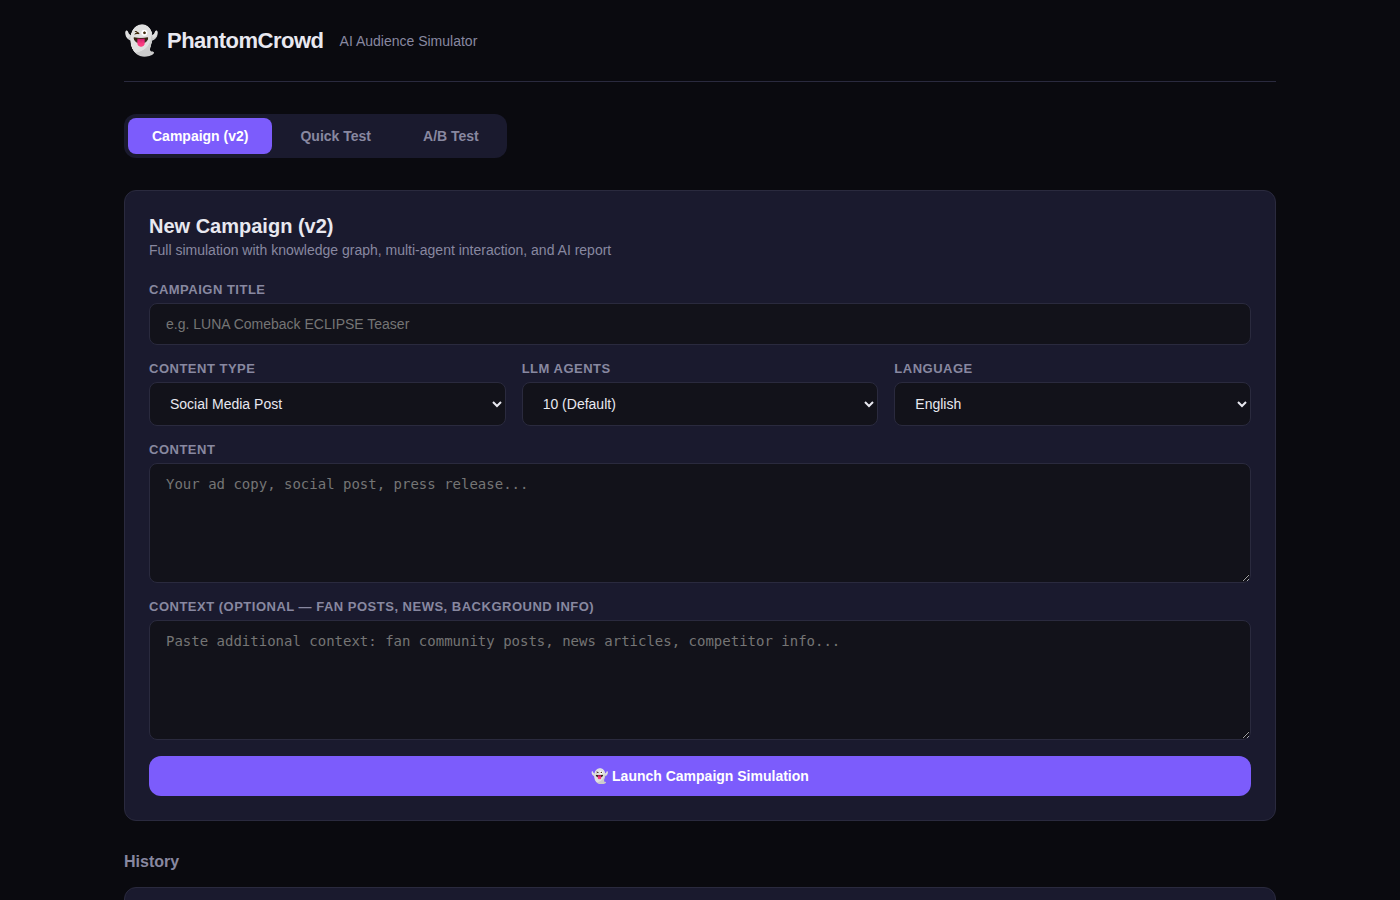
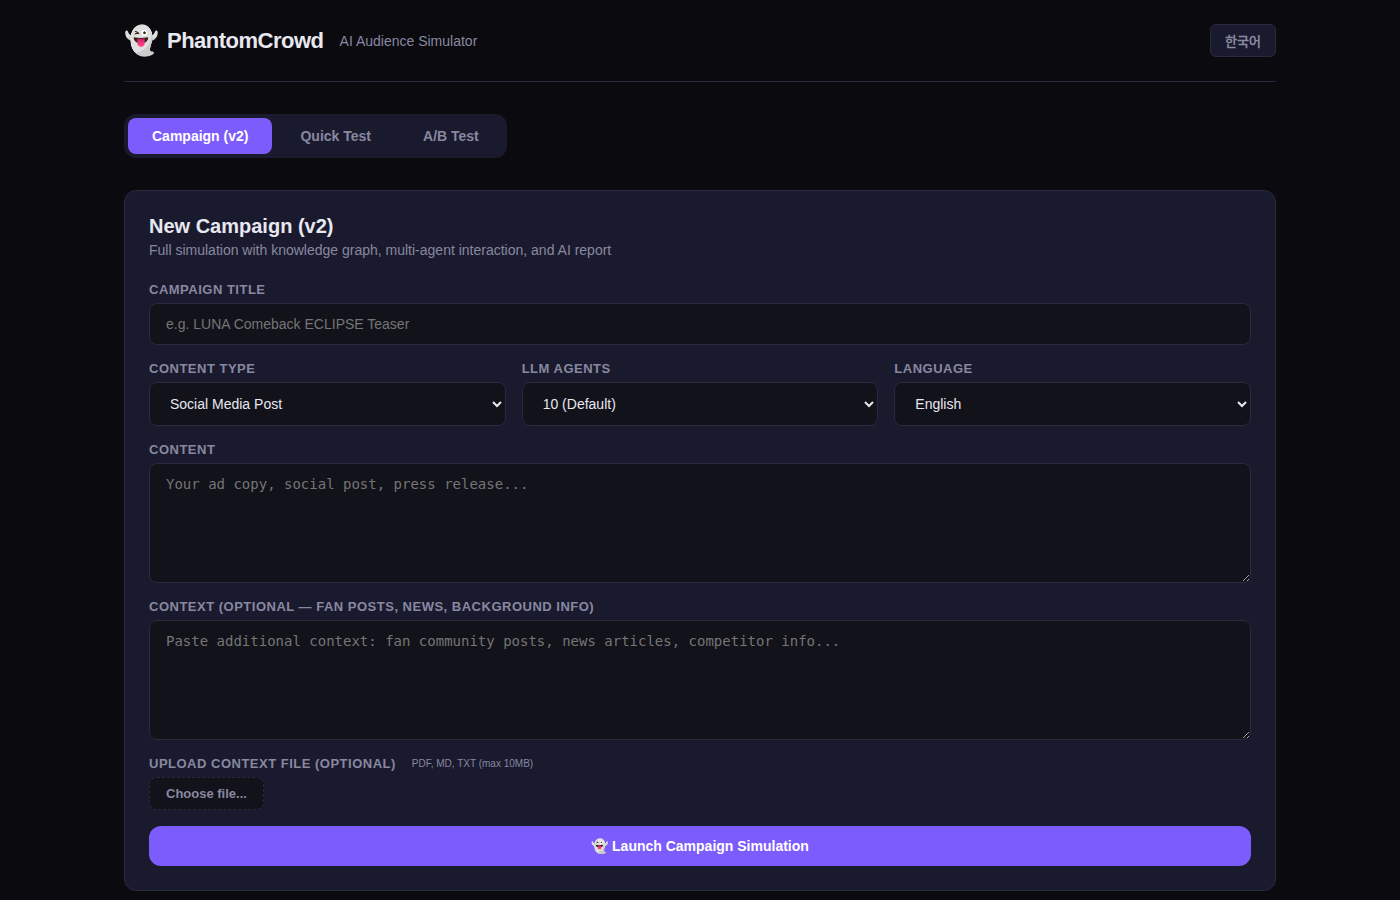
Add file upload UI for context documents (PDF/MD/TXT)
- File upload button in Campaign creation form
- Supports PDF, MD, TXT up to 10MB
- File parsed server-side and appended to campaign context
- Dashed border upload button with file name/size display
- Korean/English label support via i18n

Changed region(s): [[0.0614, 0.84, 0.9214, 1.0], [0.86, 0.0, 0.9214, 0.0622]]

diff --git a/frontend/src/views/HomeView.vue b/frontend/src/views/HomeView.vue
@@ -59,6 +59,20 @@
           <textarea v-model="campaignForm.context_text" :placeholder="$t('campaign.form.contextPlaceholder')" rows="4"></textarea>
         </div>
 
+        <div class="form-group">
+          <label>
+            {{ contextFileLabel }}
+            <span class="file-hint">PDF, MD, TXT (max 10MB)</span>
+          </label>
+          <div class="file-upload-row">
+            <input type="file" ref="fileInput" accept=".pdf,.md,.markdown,.txt,.text,.csv" @change="handleFileSelect" class="file-input" />
+            <button type="button" class="btn-upload" @click="($refs.fileInput as HTMLInputElement)?.click()">
+              {{ selectedFile ? selectedFile.name : uploadBtnLabel }}
+            </button>
+            <span v-if="selectedFile" class="file-selected">{{ (selectedFile.size / 1024).toFixed(0) }}KB</span>
+          </div>
+        </div>
+
         <button type="submit" class="btn-primary" :disabled="loading">
           {{ loading ? $t('campaign.form.starting') : $t('campaign.form.submit') }}
         </button>
@@ -275,17 +289,31 @@
 </template>
 
 <script setup lang="ts">
-import { reactive, ref, onMounted } from 'vue'
+import { reactive, ref, computed, onMounted } from 'vue'
 import { useRouter } from 'vue-router'
+import { useI18n } from 'vue-i18n'
 import {
   createSimulation, listSimulations, createABTest, listABTests,
-  createCampaign, listCampaigns,
+  createCampaign, listCampaigns, uploadCampaignFile,
   type Simulation, type ABTest as ABTestType, type Campaign,
 } from '../api/client'
 
 const router = useRouter()
 
+const { t, locale } = useI18n()
 const mode = ref<'campaign' | 'single' | 'ab'>('campaign')
+const selectedFile = ref<File | null>(null)
+const fileInput = ref<HTMLInputElement | null>(null)
+
+const contextFileLabel = computed(() => locale.value === 'ko' ? '컨텍스트 파일 업로드 (선택)' : 'Upload Context File (optional)')
+const uploadBtnLabel = computed(() => locale.value === 'ko' ? '파일 선택...' : 'Choose file...')
+
+function handleFileSelect(e: Event) {
+  const input = e.target as HTMLInputElement
+  if (input.files && input.files[0]) {
+    selectedFile.value = input.files[0]
+  }
+}
 const loading = ref(false)
 const showTarget = ref(false)
 const simulations = ref<Simulation[]>([])
@@ -336,6 +364,16 @@ async function startCampaign() {
   loading.value = true
   try {
     const { data } = await createCampaign(campaignForm)
+
+    // Upload file if selected
+    if (selectedFile.value) {
+      try {
+        await uploadCampaignFile(data.id, selectedFile.value)
+      } catch {
+        // File upload failed but campaign still starts
+      }
+    }
+
     router.push(`/campaign/${data.id}`)
   } finally {
     loading.value = false
@@ -395,6 +433,16 @@ function formatDate(dateStr: string) {
   flex-direction: column;
   gap: 32px;
 }
+
+.file-upload-row { display: flex; align-items: center; gap: 8px; }
+.file-input { display: none; }
+.btn-upload {
+  padding: 8px 16px; background: var(--bg-secondary); color: var(--text-secondary);
+  border: 1px dashed var(--border); border-radius: 8px; font-size: 13px; cursor: pointer;
+}
+.btn-upload:hover { border-color: var(--accent); color: var(--accent); }
+.file-selected { font-size: 12px; color: var(--text-secondary); }
+.file-hint { font-size: 10px; color: var(--text-secondary); font-weight: 400; text-transform: none; letter-spacing: 0; margin-left: 8px; }
 
 .mode-tabs {
   display: flex;
